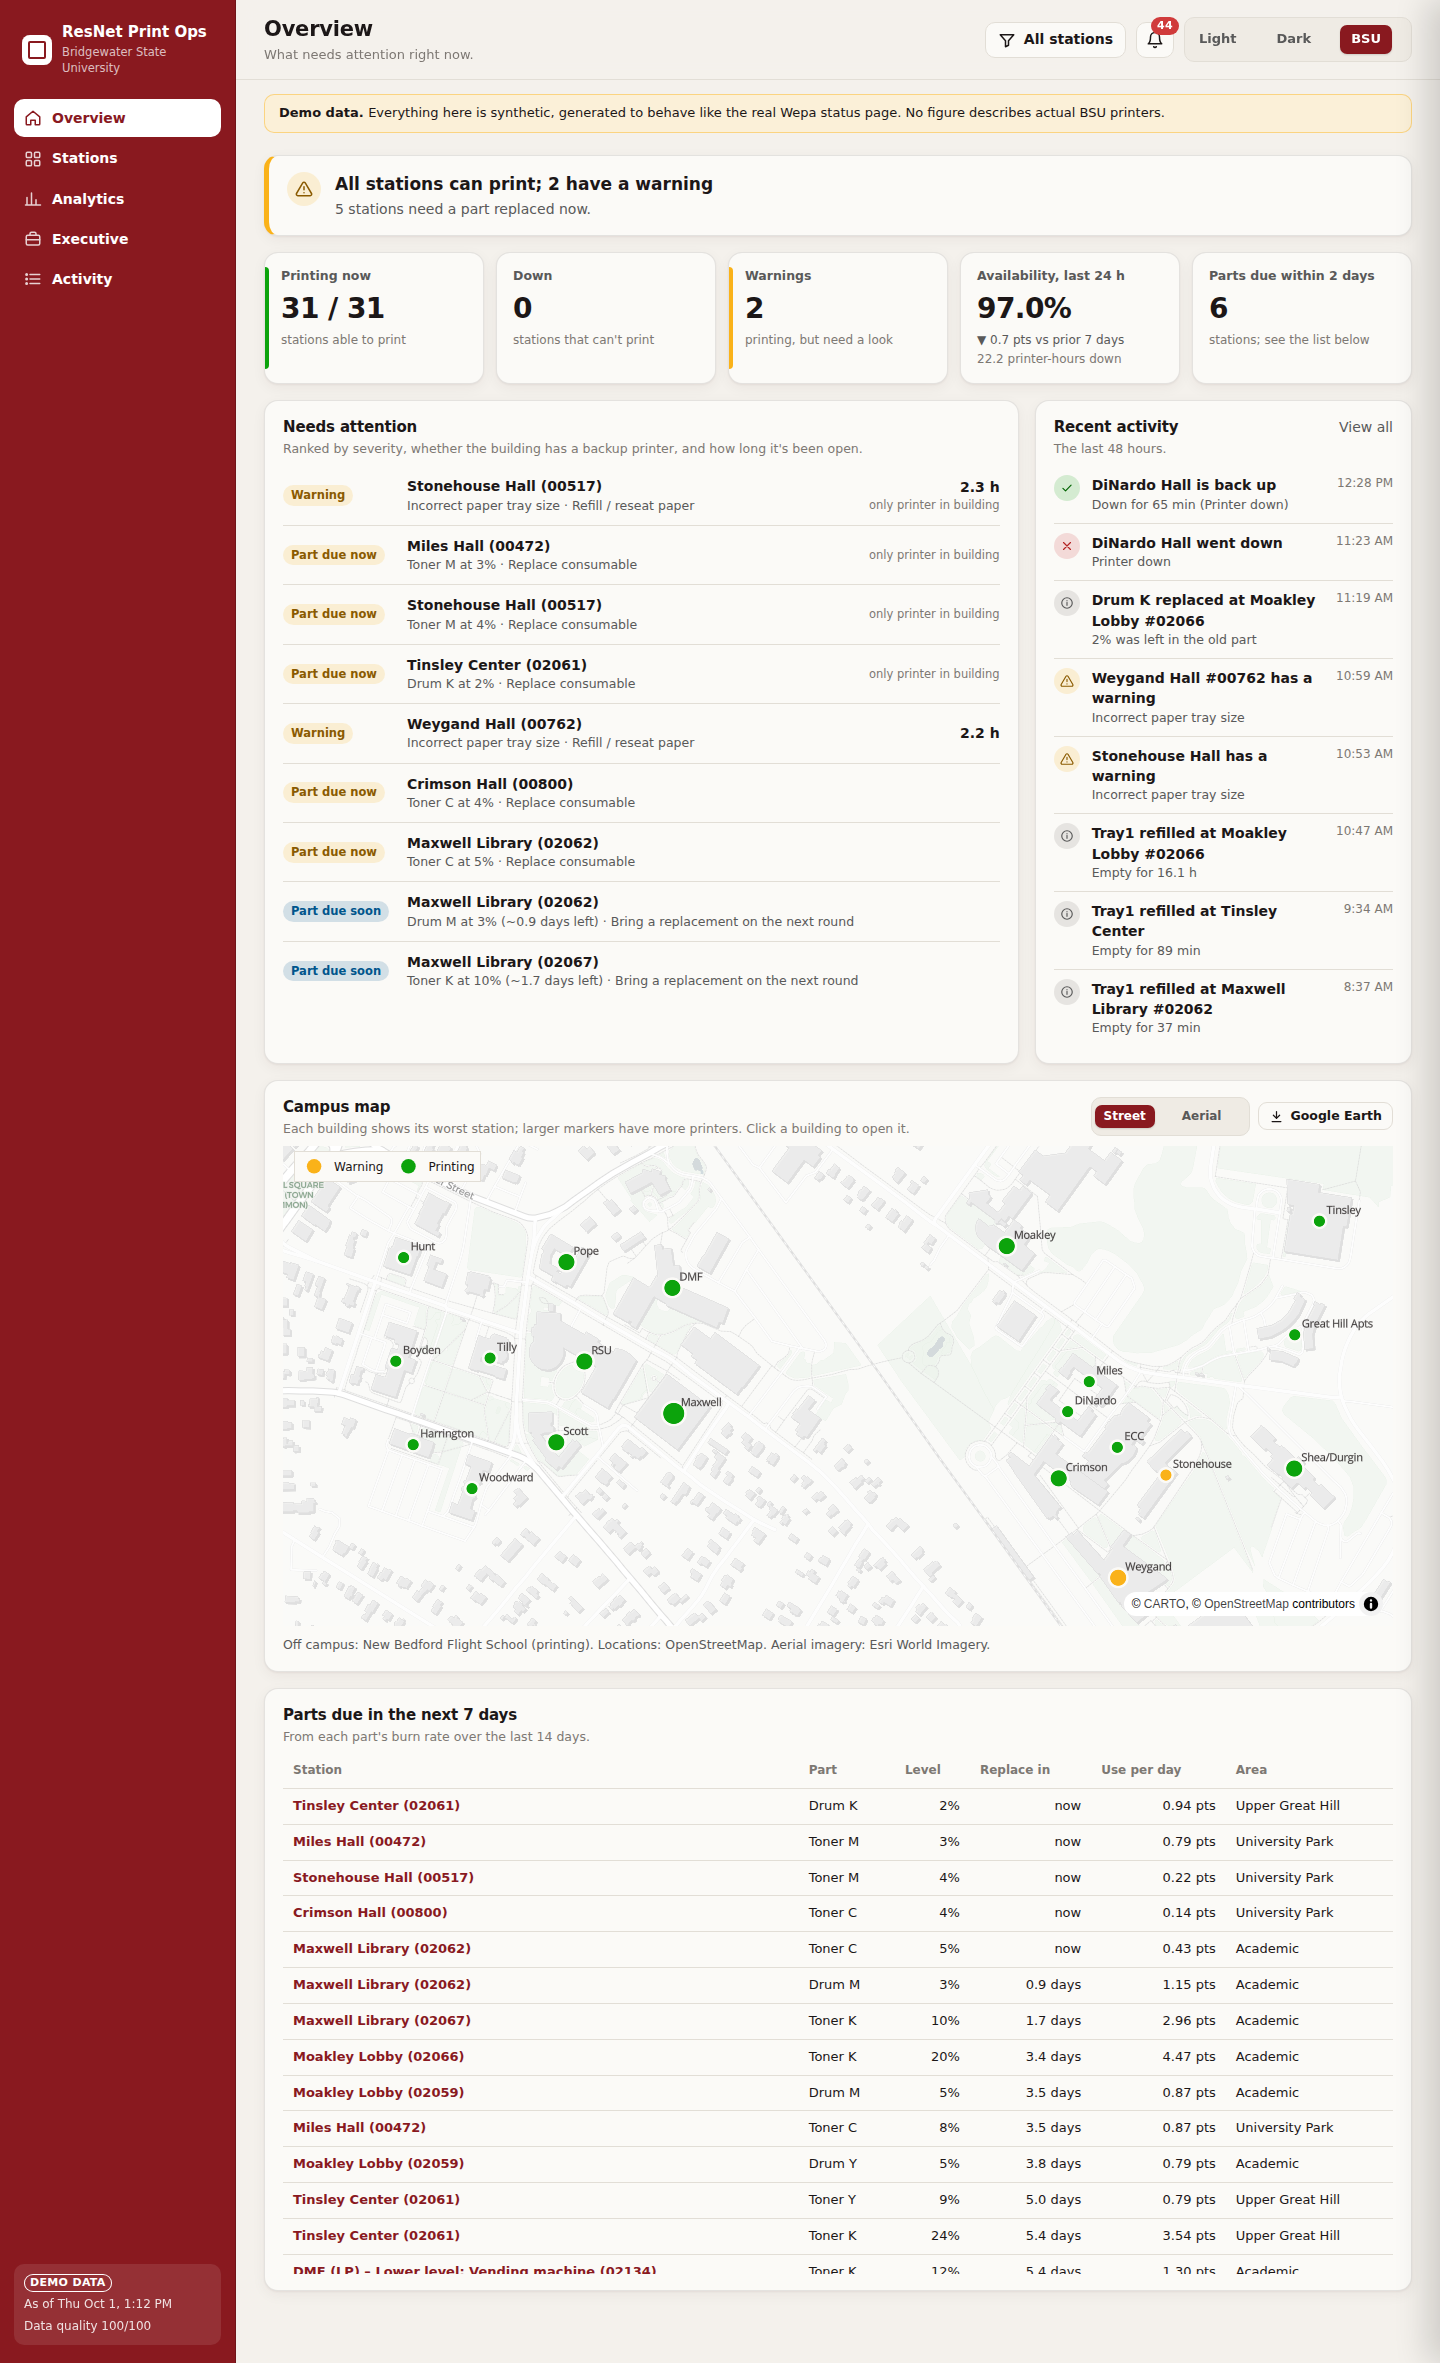
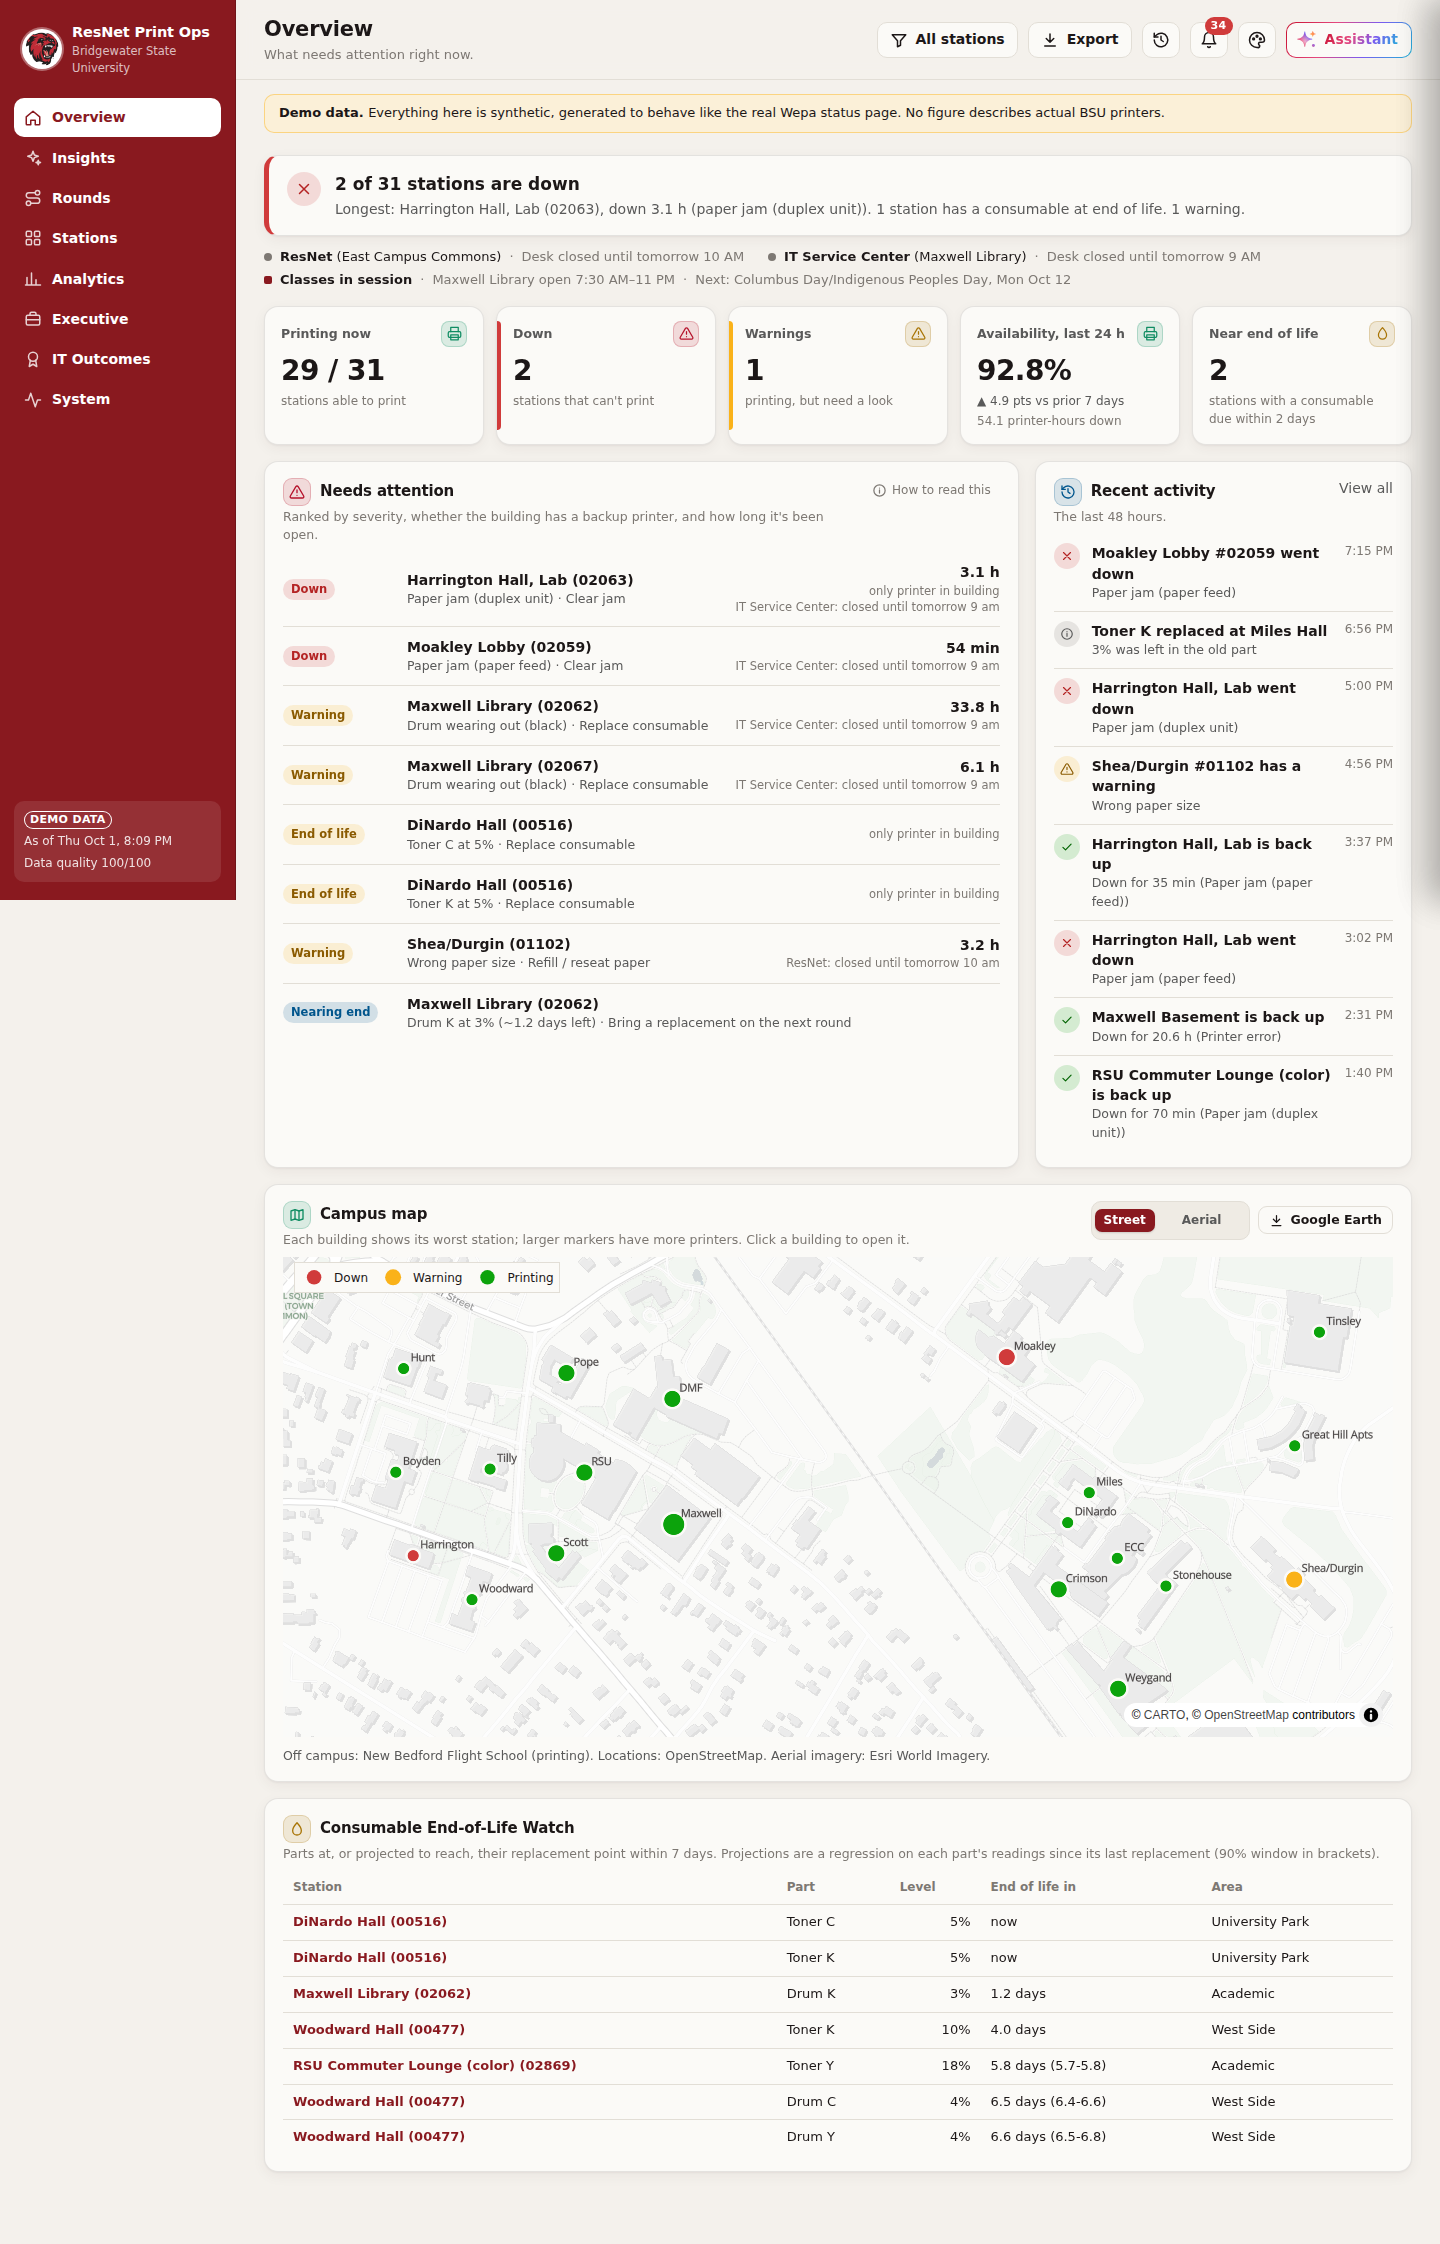
Add a case study, CI badge and refreshed screenshots
docs/CASE_STUDY.md: the problem, origin, architecture (with a diagram), the decisions behind it,
what's real vs demo data, and how results will be measured (left empty until measured).
Screenshots regenerated from the demo data, plus the Assistant and the student status page.

Claude-Session: https://claude.ai/code/session_01RnKqwaHWzyG4ssQeEHGBqC

diff --git a/docs/CASE_STUDY.md b/docs/CASE_STUDY.md
@@ -1,0 +1,125 @@
+# Case study: ResNet Print Ops
+
+*A monitoring and analytics platform for the 31 Wepa print stations at Bridgewater State University.*
+
+## The problem
+
+Students print papers, forms and tickets at Wepa stations in residence halls, the library, labs and the
+student union. When one breaks (a jam, an empty tray, a dead drum, a network drop) the student finds
+out at the printer, and the support teams (ResNet for residence halls, the IT Service Center for the
+rest) find out when someone reports it or on the next walking round.
+
+Wepa publishes a public status page that refreshes every minute, but it only shows *now*. Nobody could
+answer: Which printers break most? How long do outages last, and why? Do problems happen when the desk
+is closed? Which supplies will we need next month? Where should a student go when their printer is
+down?
+
+## Where it started
+
+The first version (2020, `legacy/resnet_wepa_v1.py`) was a terminal script for ResNet Support
+Representatives: pick your assigned area, and it polled the status page for those printers and beeped
+when one went down. It answered "what's broken right now in my area" and nothing else.
+
+## What it is now
+
+| Layer | What it does | Where |
+|---|---|---|
+| Collection | Reads the status page every 60 seconds, logs every attempt (success or failure), never edits raw data | `scrape.py`, `collector.py`, `store.py` |
+| Modeling | Turns snapshots into outages, faults, paper-tray incidents, consumable usage that survives part replacements | `events.py`, `consumables.py`, `rules.py` |
+| Metrics | Documented KPIs with quality gates: availability, repair time, time between failures, usage, data quality | `metrics.py`, README "Metric definitions" |
+| Analysis | Report card with workload-adjusted grades; empirical-Bayes failure rates; warning-to-outage; change tests; Monte Carlo supplies and staffing what-ifs; shared-outage detection; busy-weighted downtime; humidity vs jams | `report_card.py`, `advanced.py`, `correlated.py`, `impact.py`, `weather.py` |
+| Machine learning | Outage-risk model (logistic regression, gradient-boosted trees, small neural network) that must beat a baseline on walk-forward weeks before it is shown | `risk.py` |
+| AI | An analyst agent with read-only tools over all of the above; every figure in its replies is fact-checked against what it was shown | `ai.py`, `analyst.py` |
+| Product | Dash dashboard for staff, managers and executives; a student status page per printer with QR signs; exports (CSV, Excel, JSON, PDF) | `dashboard/` |
+| Operations | Azure Container Apps with rolling, zero-downtime deploys; login with lockout; anonymized visit records; CI (lint + tests) | `deploy/`, `security.py`, `.github/workflows/ci.yml` |
+
+```mermaid
+flowchart LR
+  W[Wepa public status page] -->|every 60 s| S[scrape + log]
+  S --> R[(raw snapshots<br/>append-only)]
+  R --> E[events & consumables]
+  E --> M[metrics + quality gates]
+  M --> D[dashboard]
+  M --> A[analysis & statistics]
+  A --> D
+  M --> L[outage-risk model<br/>walk-forward + gate]
+  L --> D
+  M --> T[analyst tools]
+  T --> AI[AI analyst<br/>+ fact check]
+  AI --> D
+  M --> P[student status pages<br/>+ QR signs]
+  C[bridgew.edu calendar,<br/>halls, courses] --> A
+  WX[Open-Meteo weather] --> A
+```
+
+## Decisions worth explaining
+
+**Raw data is never edited.** Every metric is recomputed from append-only snapshots, so a corrected
+business rule applies to all of history, and every number can be traced back to readings.
+
+**Parse by header, fail loudly.** The scraper finds columns by their header text. If Wepa changes the
+page, the attempt is logged as a failure rather than putting values into the wrong fields.
+
+**Small numbers don't get to shout.** A printer with two outages in its first week shouldn't look like
+the worst on campus. Report-card ratios, failure rates and the model's history feature are all shrunk
+toward the campus rate until a printer has its own history.
+
+**Busy isn't bad.** The report card never penalizes a printer for being used. Faults and parts wear
+are judged relative to its workload.
+
+**Models must earn their place.** The outage-risk model is compared with a simple baseline (each
+printer's own past rate) on weeks it hasn't seen, trained only on what came before each week. On the
+demo data no model beats the baseline, because the simulator's outages are mostly random, and
+the dashboard says so instead of showing predictions. A test with a planted pattern confirms that it does
+go live when there is something real to learn.
+
+**Statistics that check themselves.** The shared-outage detector's first version flagged three
+unrelated noon outages as "very unlikely to be coincidence", because it used the all-day average
+rate. It now uses the rate for that hour and weekday/weekend, and refuses to call a group with
+unrelated causes "shared". The humidity analysis compares like with like (same time of day) so humid
+nights, when nobody prints, aren't mistaken for an effect. Both corrections have tests.
+
+**AI interprets, the app computes.** The AI never calculates. It reads a fact sheet and calls read-only
+tools that run the dashboard's own computations. Its instructions limit it to facts, to BSU's printers
+and campus, and never to discuss individuals. A checker compares every number in a reply with what the
+model was shown; unsupported figures get one rewrite and are then flagged. The annual-report page falls
+back to its built-in text rather than publish an unchecked figure.
+
+**Privacy by default.** The data is about printers, never people. Visit records keep only a truncated
+network (/24) and never passwords. The student status pages set no cookies and record nothing about
+visitors, and they stay behind the login until Wepa and BSU agree to make them public.
+
+## What's real and what's demo
+
+* **Live data** has been collected since October 1, 2026 (first on a laptop, then on Azure). At the time of writing that is days,
+  not months, so most findings are still provisional and the dashboard says so.
+* **Demo data** is generated by `synth.py` to behave like the real page (four months, 31 stations).
+  Screenshots in the README use it and are labeled.
+
+## Results
+
+*To be filled in from the live data, not estimated.* The measurement is already built: record the date
+staff started using the dashboard (or any other change, like a new paper vendor or an evening round) in
+`reference/changes.csv`, and Analytics → Forecasts & statistics compares before and after
+(difference-in-differences against printers the change didn't affect). The planned headline numbers:
+
+* Median and 90th-percentile time to fix an outage, before vs after adoption.
+* Share of outages that start after desk hours, and how long they wait.
+* Busy-weighted downtime per week.
+* The outage-risk model's live track record, once it goes live.
+
+## Engineering
+
+* Python 3.11+, pandas, scipy, scikit-learn, Dash/Plotly, gunicorn; parquet storage.
+* Tests: run `pytest` (unit tests for parsing, rules, metrics, statistics, the model's gate, the fact
+  checker, the status pages and the login), and CI runs them with `ruff` on every push.
+* Deployed on Azure Container Apps with a file share for data; deploys roll over without downtime
+  because a new revision waits on the collector's lock before taking over.
+
+## What I'd do next
+
+* Measure and publish the before/after results above.
+* Split the dashboard's largest modules and add type checking.
+* Add alerts (Teams or email) for after-hours outages and high-risk printers once the model is live.
+* With a full semester of minute-level data, try a sequence model as another candidate under the same
+  walk-forward test.

diff --git a/README.md b/README.md
@@ -1,5 +1,10 @@
 # ResNet Print Ops — Wepa Print Station Monitor
 
+[![CI](https://github.com/NickFreberg/Wepa-Monitor/actions/workflows/ci.yml/badge.svg)](https://github.com/NickFreberg/Wepa-Monitor/actions/workflows/ci.yml)
+
+**[Read the case study](docs/CASE_STUDY.md)**: the problem, the architecture, the decisions behind it,
+and what's real vs demo data.
+
 A monitoring and analytics dashboard for the Wepa print stations at Bridgewater State University.
 It was first written as a terminal script for ResNet Support Representatives (see `legacy/`). This
 version adds minute-by-minute data capture, documented KPI/KRI definitions, and a styled web dashboard
@@ -14,13 +19,17 @@ Satellite Campuses (1).
 |---|---|---|
 | ![Overview](docs/screenshots/overview.png) | ![Overview in the BSU theme](docs/screenshots/overview-bsu.png) | ![Station detail](docs/screenshots/station-detail.png) |
 
-| Analytics (BSU) | Forecasts & statistics (BSU) | Executive summary (dark) |
+| Analytics (BSU) | Forecasts & statistics, with the outage-risk model (BSU) | Executive summary (dark) |
 |---|---|---|
 | ![Analytics](docs/screenshots/analytics.png) | ![Forecasts and statistics](docs/screenshots/forecasts.png) | ![Executive](docs/screenshots/executive.png) |
 
 | Insights: the story of the week, and Ask the data | Click any point: what it means |
 |---|---|
 | ![Insights](docs/screenshots/insights.png) | ![Explain panel](docs/screenshots/explain.png) |
+
+| The Assistant pane | Student status page (phone) |
+|---|---|
+| ![Assistant](docs/screenshots/assistant.png) | <img src="docs/screenshots/student-status.png" alt="Student status page" width="260"> |
 
 ![Campus map, aerial view](docs/screenshots/campus-map-aerial.png)
 
